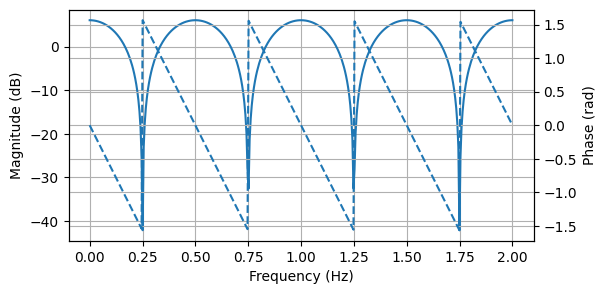
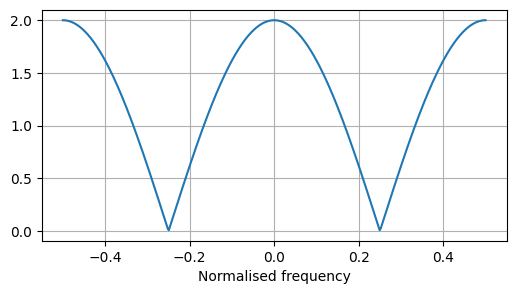
Add norm argument for DTFT plots

diff --git a/lcapy/plot.py b/lcapy/plot.py
@@ -127,7 +127,7 @@ def plot_pole_zero(obj, **kwargs):
     return ax
 
 
-def plot_frequency(obj, f, **kwargs):
+def plot_frequency(obj, f, norm=False, **kwargs):
 
     npoints = kwargs.pop('npoints', 400)    
     log_magnitude = kwargs.get('log_magnitude', False)
@@ -138,7 +138,10 @@ def plot_frequency(obj, f, **kwargs):
 
     # FIXME, determine useful frequency range...
     if f is None:
-        f = (0, 2)
+        if norm:
+            f = (-0.5, 0.5)
+        else:
+            f = (0, 2)
     if isinstance(f, (int, float)):
         f = (0, f)
     if isinstance(f, tuple):
@@ -210,7 +213,12 @@ def plot_frequency(obj, f, **kwargs):
     else:
         plot = plots[(False, log_frequency)]                    
 
-    xlabel = kwargs.pop('xlabel', obj.domain_label_with_units)
+    if norm:
+        default_xlabel = 'Normalised frequency'
+    else:
+        default_xlabel = obj.domain_label_with_units
+        
+    xlabel = kwargs.pop('xlabel', default_xlabel)
     ylabel = kwargs.pop('ylabel', obj.label_with_units)                
     ylabel2 = kwargs.pop('ylabel2', obj.label_with_units)
     second = kwargs.pop('second', False)
@@ -239,13 +247,16 @@ def plot_bode(obj, f, **kwargs):
     return plot_frequency(obj, f, **kwargs)
 
 
-def plot_angular_frequency(obj, omega, **kwargs):
+def plot_angular_frequency(obj, omega, norm=False, **kwargs):
 
     npoints = kwargs.pop('npoints', 400)        
 
     # FIXME, determine useful frequency range...
     if omega is None:
-        omega = (0, np.pi)
+        if norm:
+            omega = (-np.pi, np.pi)
+        else:
+            omega = (0, np.pi)
     if isinstance(omega, (int, float)):
         omega = (0, omega)
     if isinstance(omega, tuple):

diff --git a/lcapy/fexpr.py b/lcapy/fexpr.py
@@ -81,14 +81,15 @@ class FourierDomainExpression(FourierDomain, Expr):
         is a tuple, this sets the frequency limits.
 
         kwargs include:
-        axes - the plot axes to use otherwise a new figure is created
-        xlabel - the x-axis label
-        ylabel - the y-axis label
-        ylabel2 - the second y-axis label if needed, say for mag and phase
-        xscale - the x-axis scaling, say for plotting as ms
-        yscale - the y-axis scaling, say for plotting mV
-        plot_type -  'dB_phase', 'mag-phase', 'real-imag', 'mag', 'phase',
+        `axes` - the plot axes to use otherwise a new figure is created
+        `xlabel` - the x-axis label
+        `ylabel` - the y-axis label
+        `ylabel2` - the second y-axis label if needed, say for mag and phase
+        `xscale` - the x-axis scaling, say for plotting as ms
+        `yscale` - the y-axis scaling, say for plotting mV
+        `plot_type` -  'dB_phase', 'mag-phase', 'real-imag', 'mag', 'phase',
         'real', or 'imag'
+        `norm` - use normalised frequency
         in addition to those supported by the matplotlib plot command.
         
         The plot axes are returned.  This is a tuple for magnitude/phase or

diff --git a/doc/examples/discretetime/dt1-DTFT-plot1.py b/doc/examples/discretetime/dt1-DTFT-plot1.py
@@ -3,6 +3,6 @@ from lcapy.discretetime import n, dt
 from matplotlib.pyplot import savefig
 
 x = delta(n) + delta(n - 2)
-x.DTFT().subs(dt, 1).plot(figsize=(6, 3))
+abs(x.DTFT().subs(dt, 1)).plot(norm=True, figsize=(6, 3))
 
 savefig('dt1-DTFT-plot1.png', bbox_inches='tight')
